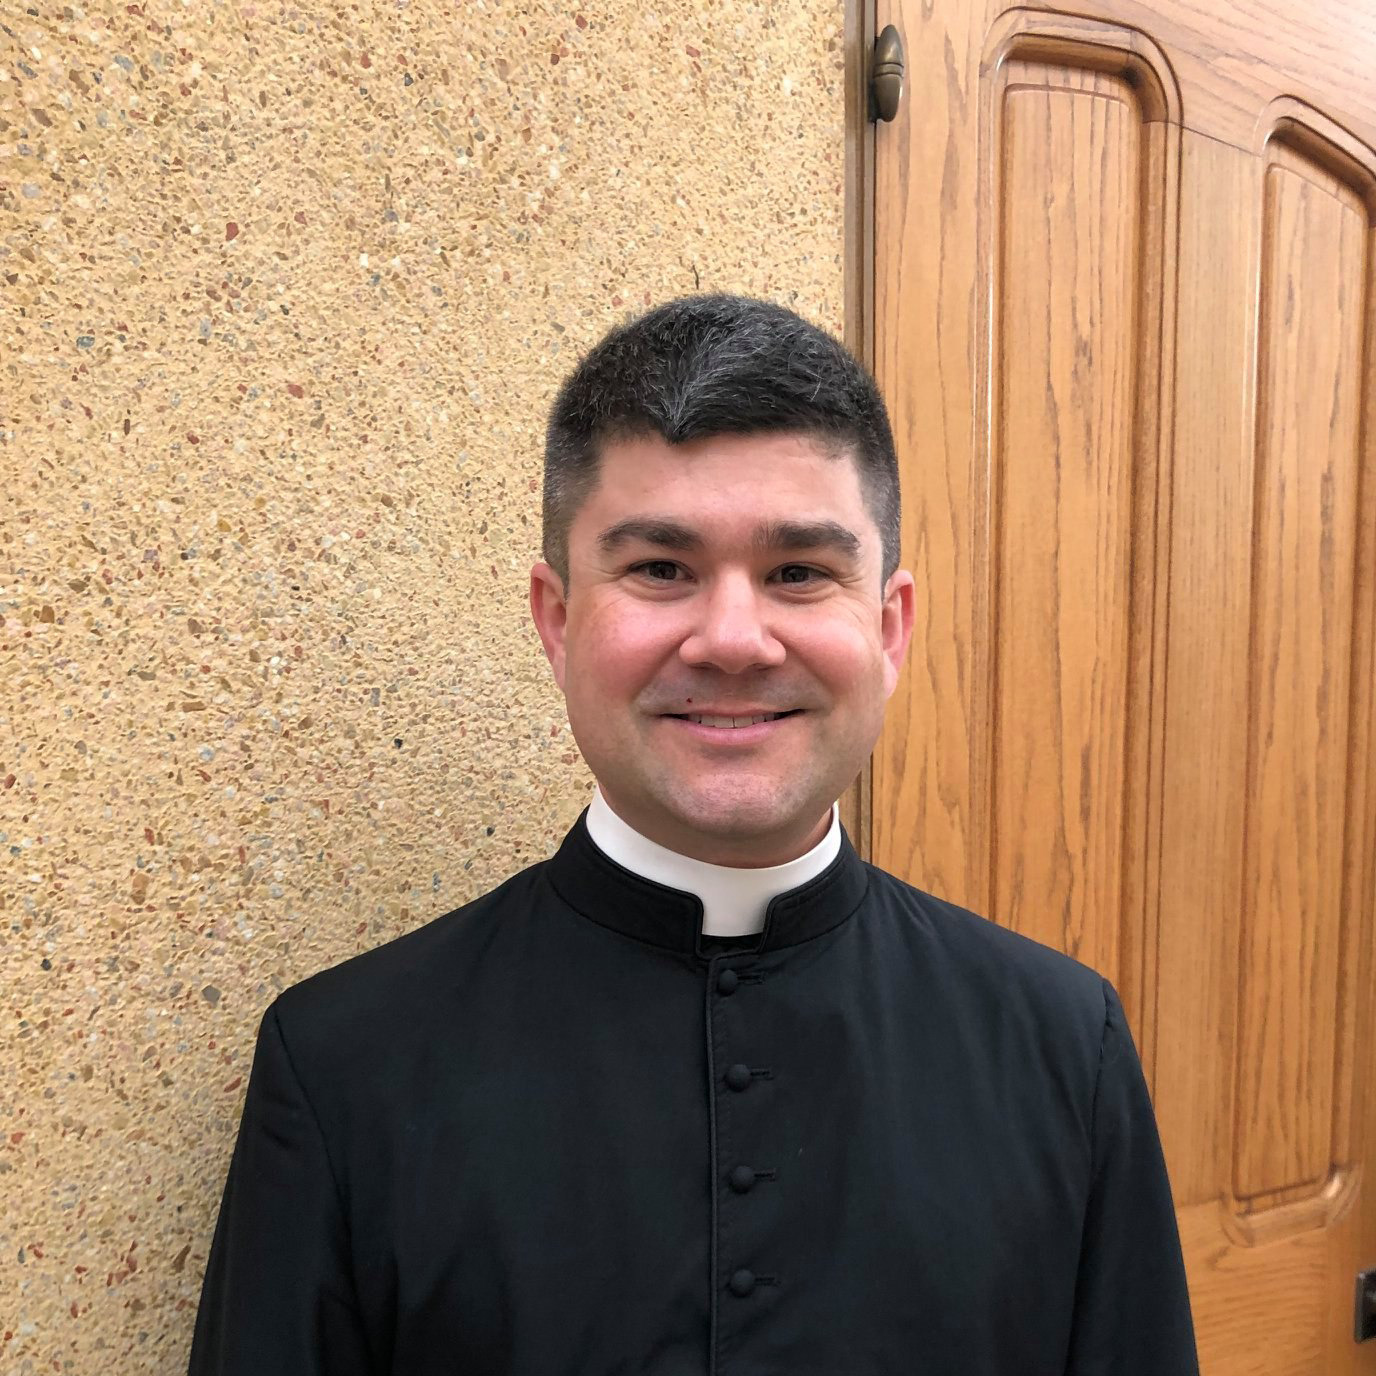
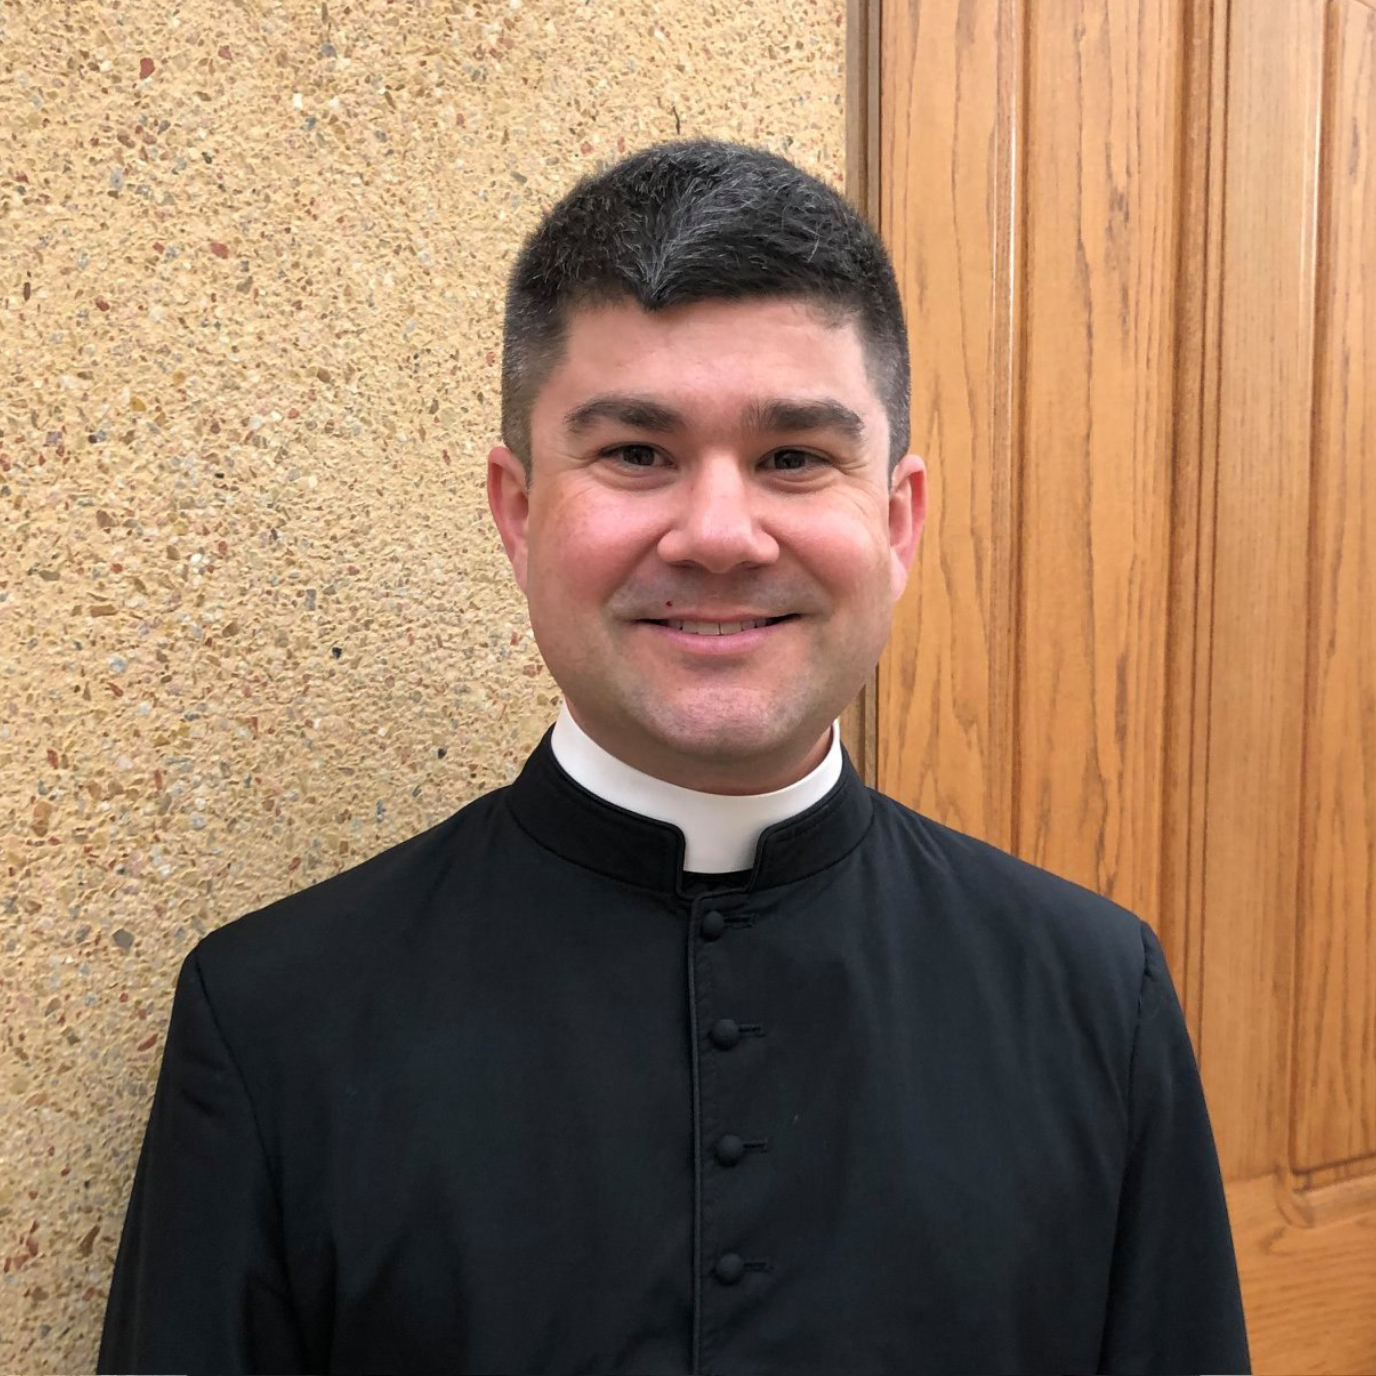
changeds may 5

diff --git a/app/routes/_marketing+/index.tsx b/app/routes/_marketing+/index.tsx
@@ -1,6 +1,7 @@
 // import { Tab } from '@headlessui/react'
 import { type MetaFunction } from '@remix-run/node'
 import { AnimatePresence, motion } from 'framer-motion'
+import { Cross, CrossIcon } from 'lucide-react'
 import React, { useEffect, useState } from 'react'
 import EmployeeCarousel from '#app/components/employee-carousel.js'
 import PrayIcon from '#app/components/icon/pray.js'
@@ -20,7 +21,12 @@ import InquiryForm from '../resources+/inquiry-form'
 export const meta: MetaFunction = () => [{ title: 'Via Nova' }]
 
 export default function Index() {
-	const images = ['/img/poetry.jpg', '/img/discuss.jpg']
+	const images = [
+		'/img/poetry.jpg',
+		'/img/discuss.jpg',
+		'/img/sushi.jpg',
+		'/img/foley.jpg',
+	]
 	const aboutImages = ['/img/study.jpg', '/img/work.jpg', '/img/pray.jpg']
 	// const [selectedIndex, setSelectedIndex] = useState<undefined | number>(
 	// 	undefined,
@@ -134,13 +140,16 @@ export default function Index() {
 				<div className="flex flex-col flex-wrap lg:container  lg:flex-row lg:pr-0">
 					<div className="container px-6 py-12 md:px-8  lg:w-2/3 lg:flex-1 lg:pr-4">
 						<div className=" text-gray-100">
-							<h2 className="pb-8 text-center text-2xl font-light md:text-3xl">
+							{/* <h2 className="pb-8 text-center text-2xl font-light md:text-3xl">
 								The richness of life at Via
-							</h2>
+							</h2> */}
 							<p className="pb-12 text-center text-base font-light md:text-xl">
-								is the fullness of Catholics with various backgrounds
+								This life of study, work, and prayer aims to provide
+								participants with a simple but very full life, experienced in a
+								community of people who desire largely the same things, namely:
+								{/* is the fullness of Catholics with various backgrounds
 								<br className="hidden lg:block" /> coming together with a shared
-								desire for largely the same things:
+								desire for largely the same things: */}
 							</p>
 							<ul className="m-auto grid list-disc grid-flow-row grid-cols-1 gap-y-6 px-4 text-sm font-light md:grid-cols-2 md:gap-x-24 md:px-12 md:text-xl">
 								<li>
@@ -194,13 +203,19 @@ export default function Index() {
 							<DialogTrigger asChild className="cursor-pointer">
 								<div className="active group flex flex-col place-items-center gap-2 focus-visible:outline-none">
 									<h3 className="font-sans text-2xl">Apply to Via</h3>
-									<div className="rounded-full border-4 border-background-img p-4 group-hover:border-slate-500 group-focus-visible:border-slate-500">
+									{/* <div className="rounded-full border-4 border-background-img p-4 group-hover:border-slate-500 group-focus-visible:border-slate-500">
 										<Icon
 											name="file-text"
 											className="h-12 w-12 group-hover:text-slate-500 group-focus-visible:text-slate-500"
 										/>
+									</div> */}
+									<div className="flex h-20 w-20 items-center justify-center rounded-full border-4 bg-gray-400 group-hover:border-slate-500">
+										<Icon
+											name="file-text"
+											className="h-12 w-12 text-gray-100"
+										/>
 									</div>
-									<p className="text-lg font-light leading-8">
+									<p className="text-pretty text-center text-lg font-light leading-8">
 										Begin the application process to be a part of Via's
 										2024-2025 cohort.
 									</p>
@@ -214,13 +229,17 @@ export default function Index() {
 							<DialogTrigger asChild className="cursor-pointer">
 								<div className="active group flex flex-col place-items-center gap-2 focus-visible:outline-none">
 									<h3 className="font-sans text-2xl">Support Us</h3>
-									<div className="rounded-full border-4 border-background-img p-4 group-hover:border-slate-500 group-focus-visible:border-slate-500">
+									<div className="flex h-20 w-20 items-center justify-center rounded-full border-4 bg-gray-400 group-hover:border-slate-500">
+										{/* <Icon name="trash" className="h-12 w-12 text-gray-100" /> */}
+										<CrossIcon className="h-12 w-12 text-gray-100" />
+									</div>
+									{/* <div className="rounded-full border-4 border-background-img p-4 group-hover:border-slate-500 group-focus-visible:border-slate-500">
 										<Icon
 											name="trash"
 											className="h-12 w-12 group-hover:text-slate-500 group-focus-visible:text-slate-500"
 										/>
-									</div>
-									<p className="text-lg font-light leading-8">
+									</div> */}
+									<p className="text-pretty text-center text-lg font-light leading-8">
 										Support Via through prayer, a donation, or both.
 									</p>
 								</div>
@@ -233,13 +252,19 @@ export default function Index() {
 							<DialogTrigger asChild className="cursor-pointer">
 								<div className="active group flex flex-col place-items-center gap-2 focus-visible:outline-none">
 									<h3 className="font-sans text-2xl">Learn More</h3>
-									<div className="rounded-full border-4 border-background-img p-4 group-hover:border-slate-500 group-focus-visible:border-slate-500">
+									{/* <div className="rounded-full border-4 border-background-img p-4 group-hover:border-slate-500 group-focus-visible:border-slate-500">
 										<Icon
 											name="magnifying-glass"
 											className="h-12 w-12 group-hover:text-slate-500 group-focus-visible:text-slate-500"
 										/>
+									</div> */}
+									<div className="flex h-20 w-20 items-center justify-center rounded-full border-4 bg-gray-400 group-hover:border-slate-500">
+										<Icon
+											name="magnifying-glass"
+											className="h-12 w-12 text-gray-100"
+										/>
 									</div>
-									<p className="text-lg font-light leading-8">
+									<p className="text-pretty text-center text-lg font-light leading-8">
 										Request more information about Via.
 									</p>
 								</div>
@@ -260,7 +285,7 @@ export default function Index() {
 										className="h-12 w-12 group-hover:text-slate-500 group-focus-visible:text-slate-500"
 									/>
 								</div>
-								<p className="text-lg font-light leading-8">
+								<p className="text-lg font-light leading-8 text-center">
 									Begin the application process to be a part of Via's 2024-2025
 									cohort.
 								</p>
@@ -273,7 +298,7 @@ export default function Index() {
 										className="h-12 w-12 group-hover:text-slate-500 group-focus-visible:text-slate-500"
 									/>
 								</div>
-								<p className="text-lg font-light leading-8">
+								<p className="text-lg font-light leading-8 text-center">
 									Support Via through prayer, a donation, or both.
 								</p>
 							</Tab>
@@ -285,7 +310,7 @@ export default function Index() {
 										className="h-12 w-12 group-hover:text-slate-500 group-focus-visible:text-slate-500"
 									/>
 								</div>
-								<p className="text-lg font-light leading-8">
+								<p className="text-lg font-light leading-8 text-center">
 									Request more information about Via.
 								</p>
 							</Tab>

diff --git a/app/root.tsx b/app/root.tsx
@@ -20,7 +20,7 @@ import {
 	useLoaderData,
 } from '@remix-run/react'
 // import { withSentry } from '@sentry/remix'
-import { useSpring } from 'framer-motion'
+import { motion, useSpring } from 'framer-motion'
 import { useLayoutEffect, useState } from 'react'
 import { HoneypotProvider } from 'remix-utils/honeypot/react'
 import { z } from 'zod'
@@ -244,11 +244,17 @@ function App() {
 
 function Navigation() {
 	const spring = useSpring(0, { damping: 100, stiffness: 200 })
+	const [currentLocation, setCurrentLocation] = useState(0)
 	const [sheetOpen, setSheetOpen] = useState(false)
 
 	useLayoutEffect(() => {
+		setCurrentLocation(window.scrollY)
 		const handleWheel = () => {
-			spring.stop() // Stop the spring animation on wheel scroll
+			console.log('Wheel!', spring.get())
+			// spring.set(window.scrollY, false)
+
+			console.log('currentLoc:::', currentLocation)
+			// spring.animation?.stop() // Stop the spring animation on wheel scroll
 		}
 
 		window.addEventListener('wheel', handleWheel)
@@ -258,26 +264,28 @@ function Navigation() {
 		})
 
 		return () => {
-			window.removeEventListener('wheel', handleWheel)
+			window.removeEventListener('scroll', handleWheel)
 		}
 	}, [spring])
 
 	function moveTo(to: number) {
+		setCurrentLocation(to)
 		setSheetOpen(false)
 		spring.set(window.scrollY, false)
 		setTimeout(() => {
-			spring.set(to)
+			console.log('currentLoc', currentLocation)
+			spring.set(currentLocation)
 		}, 50)
 	}
 
 	return (
 		<>
-			<button
+			<motion.button
 				className="fixed bottom-6 right-6 z-50 h-12 w-12 rounded-full border border-black bg-slate-700 opacity-50 md:bottom-16 md:right-16"
 				onClick={() => moveTo(0)}
 			>
 				<Icon name="arrow-up" className="h-8 w-8 text-slate-300" />
-			</button>
+			</motion.button>
 			<div className="lg:hidden">
 				<Sheet open={sheetOpen} onOpenChange={open => setSheetOpen(open)}>
 					<SheetTrigger asChild>
@@ -291,7 +299,7 @@ function Navigation() {
 								<Logo className="!text-3xl" />
 							</SheetTitle>
 							<SheetDescription>
-								<ul className="mt-8 flex flex-col gap-8 font-title text-lg font-thin uppercase tracking-widest">
+								<ul className="font-nav mt-8 flex flex-col gap-8 text-lg font-normal uppercase tracking-widest">
 									<li className="hover:font-bold">
 										<Link
 											to={{
@@ -332,7 +340,7 @@ function Navigation() {
 				</Sheet>
 			</div>
 			<nav className="hidden lg:block">
-				<ul className="flex flex-row space-x-8 font-title text-lg font-thin uppercase tracking-widest">
+				<ul className="font-nav flex flex-row space-x-8 text-lg font-normal uppercase tracking-widest">
 					<li className="hover:font-bold">
 						<Link
 							to={{
@@ -382,11 +390,17 @@ function Logo({ className }: { className?: string }) {
 	return (
 		<div
 			className={cn([
-				'font-title text-3xl font-thin uppercase tracking-[.4em] text-black md:text-5xl',
+				'font-title text-3xl font-thin uppercase tracking-[.2em] text-black md:text-5xl',
 				className,
 			])}
 		>
-			<span className="font-bold">Via</span> Nova
+			<img
+				src="/img/via-logo.svg"
+				alt="Via Nova"
+				className="h-14 w-auto fill-slate-900"
+			/>{' '}
+			{/* Via Nova */}
+			{/* <span className="font-semibold">Via</span> Nova */}
 		</div>
 	)
 }

diff --git a/app/components/employee-carousel.tsx b/app/components/employee-carousel.tsx
@@ -15,7 +15,7 @@ const board = [
 	{
 		name: 'Luke Ungarino',
 		title: 'Director',
-		image: '/img/board/luke.ungarino.jpg',
+		image: '/img/board/luke.v2.jpg',
 		quote:
 			'Lorem ipsum dolor sit amet, consectetur adipiscing elit, sed do eiusmod tempor incididunt ut labore et dolore magna aliqua. Ut enim ad minim veniam, quis nostrud exercitation ullamco laboris nisi ut aliquip ex ea commodo consequat. Duis aute irure dolor in reprehenderit in voluptate velit esse cillum dolore eu fugiat nulla pariatur. Excepteur sint occaecat cupidatat non proident, sunt in culpa qui officia deserunt mollit anim id est laborum.',
 	},

diff --git a/app/styles/tailwind.css b/app/styles/tailwind.css
@@ -7,7 +7,8 @@
 		--text: 0, 0%, 3%;
 		--font-serif: Poppins, Nunito Sans, Nunito Sans Fallback;
 		--font-sans: Adobe Garamond Pro, Garamond, Times New Roman, serif;
-		--font-title: Arial, serif;
+		--font-title: '"EB Garamond", Arial, serif';
+		--font-nav: 'Arial, serif';
 		/* --font-mono: here if you got it... */
 
 		/* prefixed with foreground because it should look good on the background */
